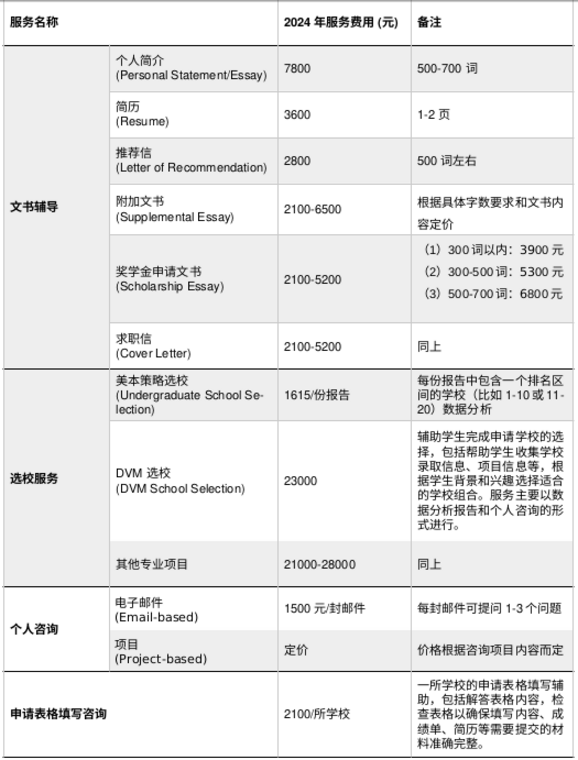
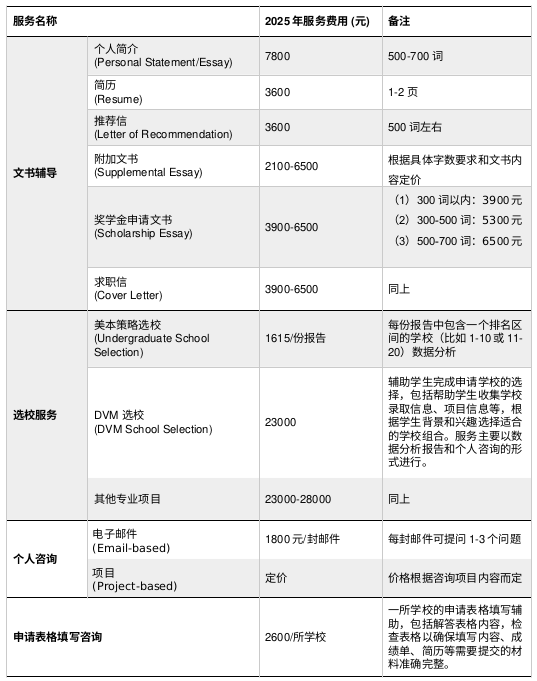
updated prices

Changed region(s): [[0.0, 0.0, 1.0, 1.0], [0.1788, 0.5859, 0.4171, 0.6476]]

diff --git a/pages/privacy.html b/pages/privacy.html
@@ -4,7 +4,7 @@ title: TEssay Analytics | Privacy Policy
 ---
 
 <h2>TEssay Analytics Privacy Policy</h2>
-<p>Last Modified: January 1, 2024</p>
+<p>Last Modified: January 1, 2025</p>
 <p>Our Services help students complete the essays in their college or
   graduate-school applications. For example, any registered user of TEssay Analytics can
   purchase Services, and provide information to be included in their essays.</p>

diff --git a/pages/terms.html b/pages/terms.html
@@ -3,7 +3,7 @@ layout: default
 title: TEssay Analytics | Terms of Service
 ---
 <h2>TEssay Analytics Terms of Service</h2>
-<p>Last modified: January 1, 2024</p>
+<p>Last modified: January 1, 2025</p>
 <h3>Welcome to TEssay Analytics</h3>
 <p>Thanks for using our products, blog and services (“Services”). The Services are
   provided by TEssay Analytics. By using our Services, you are agreeing to these terms.

diff --git a/pages/consulting/index.html b/pages/consulting/index.html
@@ -54,7 +54,7 @@ title: TEssay Analytics | Personal Consulting
 						about one application document, or one problem you encountered
 						during submitting your application. Answers will be provided
 						through email.</li>
-					<li><b>Price:</b> 1500 Yuan per email correspondence. </li>
+					<li><b>Price:</b> 1800 Yuan per email correspondence. </li>
 				</ul>
 			</ul>
 

diff --git a/pages/essay/index.html b/pages/essay/index.html
@@ -30,8 +30,8 @@ title: TEssay Analytics | Essay Writing
 		<tr>
 			<td>Recommendation Letter</td>
 			<td>500-600 words</td>
-			<td>2800</td>
-			<td>400</td>
+			<td>3600</td>
+			<td>520</td>
 		</tr>
 	</table>
 	</div>
